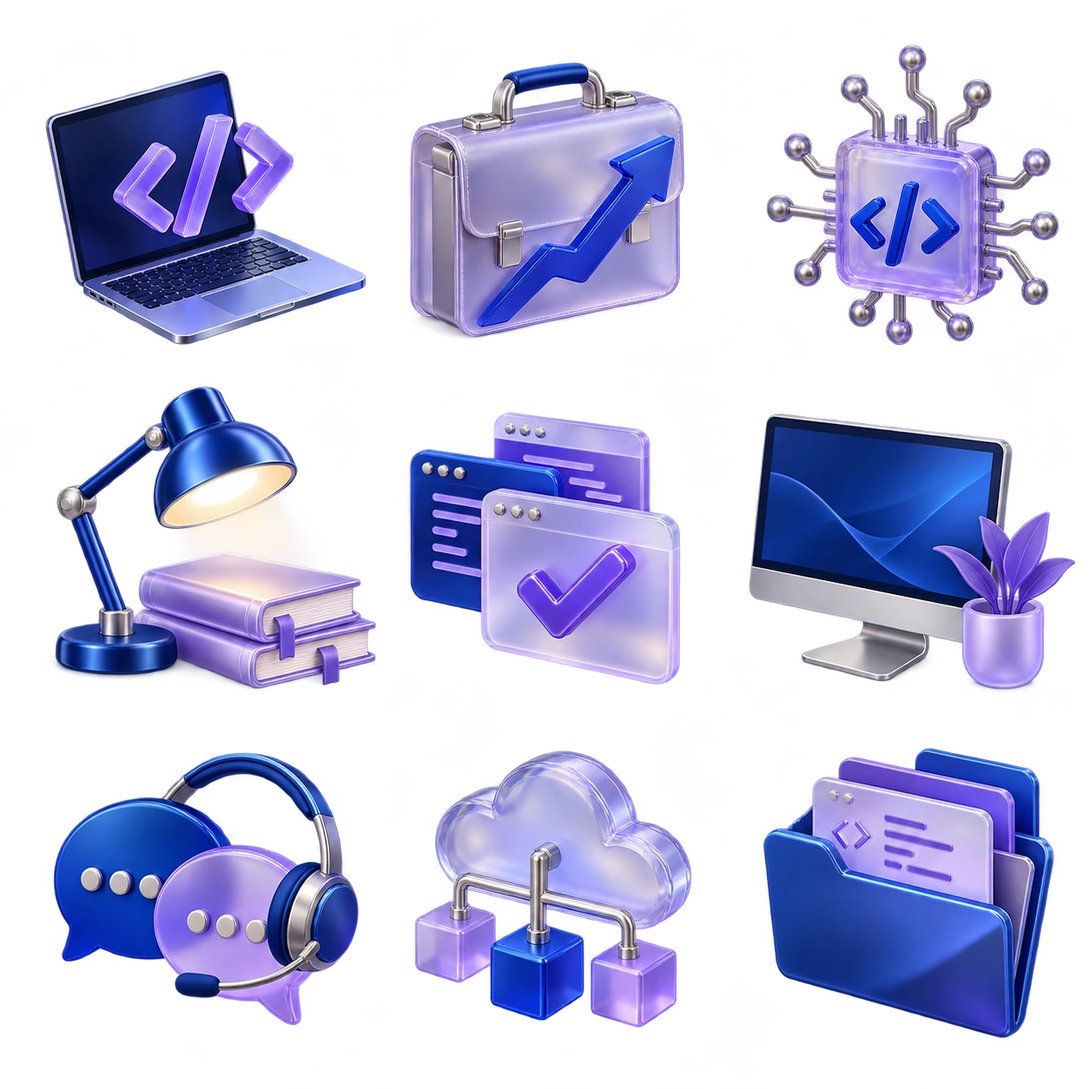
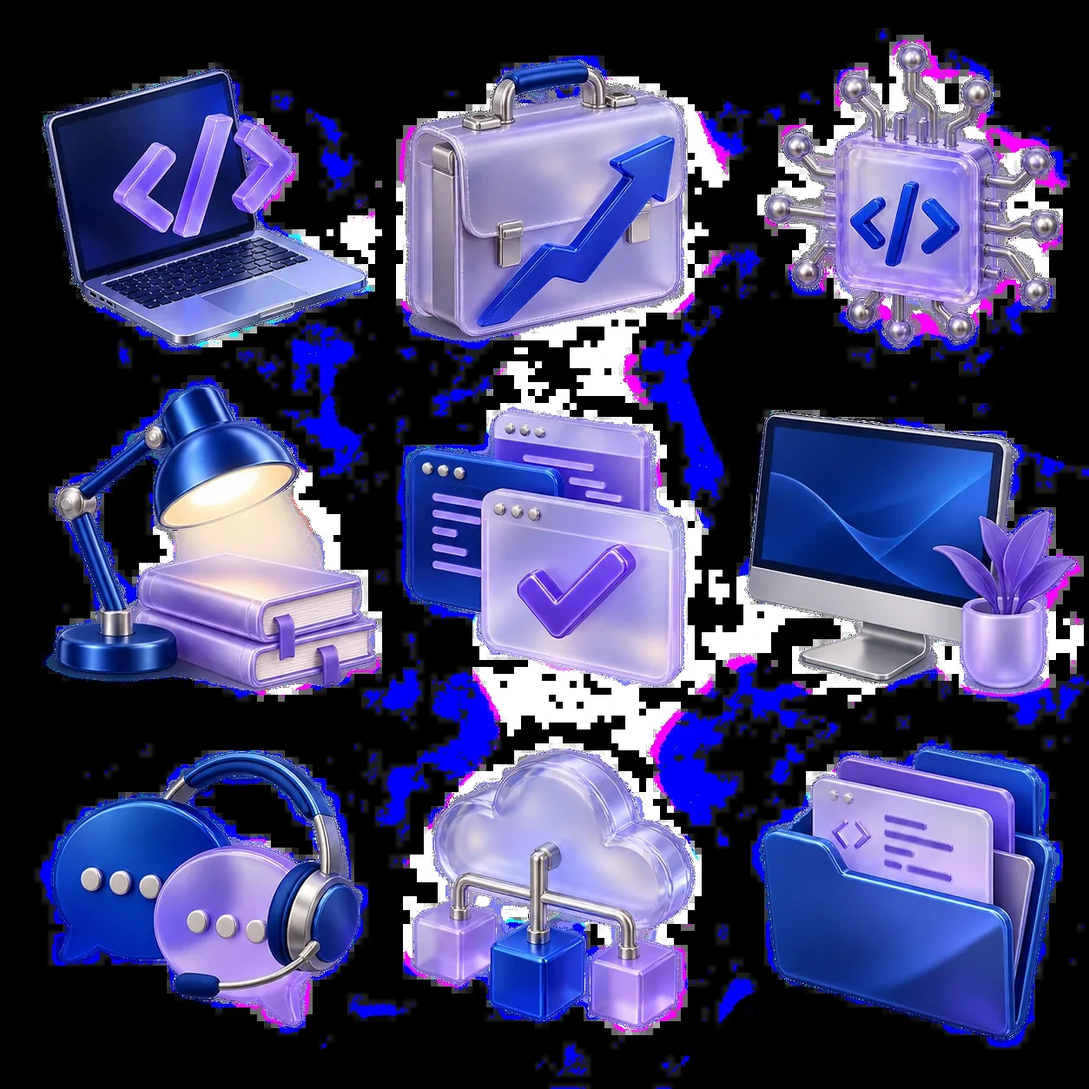
RPO + AI — Алматы: подготовка лендинга к публикации (#20)
* Prepare Almaty RPO + AI landing for production

* Restore admissions label before contact phone numbers

---------

diff --git a/sites/almaty/rpo-ai/index.html b/sites/almaty/rpo-ai/index.html
@@ -70,7 +70,7 @@
 </div></section>
 
 
-    <section class="section container source-comparison"><div class="section-heading"><h2>Преимущества курса</h2></div><div class="comparison-scroll" tabindex="0" role="region" aria-label="Сравнение форматов образования"><table><thead><tr><th scope="col"></th><th scope="col">Курсы</th><th scope="col">Курс-профессия: AI-Native Developer</th><th scope="col">ЗВО</th></tr></thead><tbody><tr><th scope="row">Практика</th><td>Базовые навыки</td><td>Полный комплекс знаний для синергии разработчика и AI в карьере для успешной карьеры</td><td>Глубокая теория</td></tr><tr><th scope="row">Глубина знаний</th><td>Минимум практических задач</td><td>Обучение на реальных кейсах: создание 90+ проектов.</td><td>Преимущественно теория</td></tr><tr><th scope="row">Сертификация</th><td>Сертификат курса</td><td>Диплом Академии IT STEP</td><td>Диплом</td></tr><tr><th scope="row">карьерный рост</th><td>Без гарантии трудоустройства</td><td>Помощь в трудоустройстве через партнерские IT-компании.</td><td>Ограниченная поддержка</td></tr><tr><th scope="row">Трудоустройство</th><td>Узкоспециализированные роли</td><td>Уже во время учебы студенты трудоустраиваются по востребованным профессиям</td><td>После окончания учебы</td></tr><tr><th scope="row">Продолжительность обучения</th><td>2-3 месяца</td><td>18 месяцев</td><td>4-6 лет</td></tr><tr><th scope="row">Преподаватели</th><td>Практикующие специалисты</td><td>Баланс опыта реальных разработчиков и фундаментальных знаний</td><td>Преимущественно теоретики</td></tr><tr><th scope="row">Когда подходит</th><td>Работаете уже в сфере и хотите углубленные знания в одном направлении</td><td>Хотите получить практические навыки для работы с нуля</td><td>Общее развитие или строительство карьеры в науке</td></tr></tbody></table></div><div class="comparison-mobile"><details class="comparison-category" name="mobile-comparison"><summary><span>Практика</span><span class="expand" aria-hidden="true">+</span></summary><dl><div><dt>Курсы</dt><dd>Базовые навыки</dd></div><div><dt>ЗВО</dt><dd>Глубокая теория</dd></div><div class="comparison-highlight"><dt>Курс-профессия: AI-Native Developer</dt><dd>Полный комплекс знаний для синергии разработчика и AI в карьере для успешной карьеры</dd></div></dl></details><details class="comparison-category" name="mobile-comparison"><summary><span>Глубина знаний</span><span class="expand" aria-hidden="true">+</span></summary><dl><div><dt>Курсы</dt><dd>Минимум практических задач</dd></div><div><dt>ЗВО</dt><dd>Преимущественно теория</dd></div><div class="comparison-highlight"><dt>Курс-профессия: AI-Native Developer</dt><dd>Обучение на реальных кейсах: создание 90+ проектов.</dd></div></dl></details><details class="comparison-category" name="mobile-comparison"><summary><span>Сертификация</span><span class="expand" aria-hidden="true">+</span></summary><dl><div><dt>Курсы</dt><dd>Сертификат курса</dd></div><div><dt>ЗВО</dt><dd>Диплом</dd></div><div class="comparison-highlight"><dt>Курс-профессия: AI-Native Developer</dt><dd>Диплом Академии IT STEP</dd></div></dl></details><details class="comparison-category" name="mobile-comparison"><summary><span>карьерный рост</span><span class="expand" aria-hidden="true">+</span></summary><dl><div><dt>Курсы</dt><dd>Без гарантии трудоустройства</dd></div><div><dt>ЗВО</dt><dd>Ограниченная поддержка</dd></div><div class="comparison-highlight"><dt>Курс-профессия: AI-Native Developer</dt><dd>Помощь в трудоустройстве через партнерские IT-компании.</dd></div></dl></details><details class="comparison-category" name="mobile-comparison"><summary><span>Трудоустройство</span><span class="expand" aria-hidden="true">+</span></summary><dl><div><dt>Курсы</dt><dd>Узкоспециализированные роли</dd></div><div><dt>ЗВО</dt><dd>После окончания учебы</dd></div><div class="comparison-highlight"><dt>Курс-профессия: AI-Native Developer</dt><dd>Уже во время учебы студенты трудоустраиваются по востребованным профессиям</dd></div></dl></details><details class="comparison-category" name="mobile-comparison"><summary><span>Продолжительность обучения</span><span class="expand" aria-hidden="true">+</span></summary><dl><div><dt>Курсы</dt><dd>2-3 месяца</dd></div><div><dt>ЗВО</dt><dd>4-6 лет</dd></div><div class="comparison-highlight"><dt>Курс-профессия: AI-Native Developer</dt><dd>18 месяцев</dd></div></dl></details><details class="comparison-category" name="mobile-comparison"><summary><span>Преподаватели</span><span class="expand" aria-hidden="true">+</span></summary><dl><div><dt>Курсы</dt><dd>Практикующие специалисты</dd></div><div><dt>ЗВО</dt><dd>Преимущественно теоретики</dd></div><div class="comparison-highlight"><dt>Курс-профессия: AI-Native Developer</dt><dd>Баланс опыта реальных разработчиков и фундаментальных знаний</dd></div></dl></details><details class="comparison-category" name="mobile-comparison"><summary><span>Когда подходит</span><span class="expand" aria-hidden="true">+</span></summary><dl><div><dt>Курсы</dt><dd>Работаете уже в сфере и хотите углубленные знания в одном направлении</dd></div><div><dt>ЗВО</dt><dd>Общее развитие или строительство карьеры в науке</dd></div><div class="comparison-highlight"><dt>Курс-профессия: AI-Native Developer</dt><dd>Хотите получить практические навыки для работы с нуля</dd></div></dl></details></div></section><section class="section container trial-section" id="trial"><article class="trial-card"><img class="trial-photo" src="assets/trial-laptop.webp" width="1536" height="1024" loading="lazy" alt="Ноутбук с надписью Enter на экране среди полевых цветов под голубым небом"><h2>Попробуйте IT на пробном уроке</h2><p class="trial-intro">Познакомьтесь с Академией IT STEP и узнайте, как проходит обучение на практике.</p><h3>Что вас ждёт:</h3><ul class="trial-benefits"><li>Знакомство с Академией и направлениями обучения.</li><li>Демонстрация одного из направлений, представленных на сайте.</li><li>Возможность узнать больше об интересующей программе.</li></ul><h3>Где проходит урок?</h3><div class="trial-addresses"><p><span class="location-pin" aria-hidden="true"></span>Алматы, мкр. Коктем-3, дом 16А</p><p><span class="location-pin" aria-hidden="true"></span>Алматы, ул. Байсеитовой, 45</p></div><p class="trial-disclaimer">Тема урока и время проведения зависят от расписания Академии.</p><a class="button button-primary" href="#signup">Записаться на пробный урок</a></article></section>
+    <section class="section container source-comparison"><div class="section-heading"><h2>Преимущества курса</h2></div><div class="comparison-scroll" tabindex="0" role="region" aria-label="Сравнение форматов образования"><table><thead><tr><th scope="col"></th><th scope="col">Курсы</th><th scope="col">Курс-профессия: AI-Native Developer</th><th scope="col">ЗВО</th></tr></thead><tbody><tr><th scope="row">Практика</th><td>Базовые навыки</td><td>Полный комплекс знаний для синергии разработчика и AI в карьере для успешной карьеры</td><td>Глубокая теория</td></tr><tr><th scope="row">Глубина знаний</th><td>Минимум практических задач</td><td>Обучение на реальных кейсах: создание 90+ проектов.</td><td>Преимущественно теория</td></tr><tr><th scope="row">Сертификация</th><td>Сертификат курса</td><td>Диплом Академии ШАГ</td><td>Диплом</td></tr><tr><th scope="row">карьерный рост</th><td>Без гарантии трудоустройства</td><td>Помощь в трудоустройстве через партнерские IT-компании.</td><td>Ограниченная поддержка</td></tr><tr><th scope="row">Трудоустройство</th><td>Узкоспециализированные роли</td><td>Уже во время учебы студенты трудоустраиваются по востребованным профессиям</td><td>После окончания учебы</td></tr><tr><th scope="row">Продолжительность обучения</th><td>2-3 месяца</td><td>18 месяцев</td><td>4-6 лет</td></tr><tr><th scope="row">Преподаватели</th><td>Практикующие специалисты</td><td>Баланс опыта реальных разработчиков и фундаментальных знаний</td><td>Преимущественно теоретики</td></tr><tr><th scope="row">Когда подходит</th><td>Работаете уже в сфере и хотите углубленные знания в одном направлении</td><td>Хотите получить практические навыки для работы с нуля</td><td>Общее развитие или строительство карьеры в науке</td></tr></tbody></table></div><div class="comparison-mobile"><details class="comparison-category" name="mobile-comparison"><summary><span>Практика</span><span class="expand" aria-hidden="true">+</span></summary><dl><div><dt>Курсы</dt><dd>Базовые навыки</dd></div><div><dt>ЗВО</dt><dd>Глубокая теория</dd></div><div class="comparison-highlight"><dt>Курс-профессия: AI-Native Developer</dt><dd>Полный комплекс знаний для синергии разработчика и AI в карьере для успешной карьеры</dd></div></dl></details><details class="comparison-category" name="mobile-comparison"><summary><span>Глубина знаний</span><span class="expand" aria-hidden="true">+</span></summary><dl><div><dt>Курсы</dt><dd>Минимум практических задач</dd></div><div><dt>ЗВО</dt><dd>Преимущественно теория</dd></div><div class="comparison-highlight"><dt>Курс-профессия: AI-Native Developer</dt><dd>Обучение на реальных кейсах: создание 90+ проектов.</dd></div></dl></details><details class="comparison-category" name="mobile-comparison"><summary><span>Сертификация</span><span class="expand" aria-hidden="true">+</span></summary><dl><div><dt>Курсы</dt><dd>Сертификат курса</dd></div><div><dt>ЗВО</dt><dd>Диплом</dd></div><div class="comparison-highlight"><dt>Курс-профессия: AI-Native Developer</dt><dd>Диплом Академии ШАГ</dd></div></dl></details><details class="comparison-category" name="mobile-comparison"><summary><span>карьерный рост</span><span class="expand" aria-hidden="true">+</span></summary><dl><div><dt>Курсы</dt><dd>Без гарантии трудоустройства</dd></div><div><dt>ЗВО</dt><dd>Ограниченная поддержка</dd></div><div class="comparison-highlight"><dt>Курс-профессия: AI-Native Developer</dt><dd>Помощь в трудоустройстве через партнерские IT-компании.</dd></div></dl></details><details class="comparison-category" name="mobile-comparison"><summary><span>Трудоустройство</span><span class="expand" aria-hidden="true">+</span></summary><dl><div><dt>Курсы</dt><dd>Узкоспециализированные роли</dd></div><div><dt>ЗВО</dt><dd>После окончания учебы</dd></div><div class="comparison-highlight"><dt>Курс-профессия: AI-Native Developer</dt><dd>Уже во время учебы студенты трудоустраиваются по востребованным профессиям</dd></div></dl></details><details class="comparison-category" name="mobile-comparison"><summary><span>Продолжительность обучения</span><span class="expand" aria-hidden="true">+</span></summary><dl><div><dt>Курсы</dt><dd>2-3 месяца</dd></div><div><dt>ЗВО</dt><dd>4-6 лет</dd></div><div class="comparison-highlight"><dt>Курс-профессия: AI-Native Developer</dt><dd>18 месяцев</dd></div></dl></details><details class="comparison-category" name="mobile-comparison"><summary><span>Преподаватели</span><span class="expand" aria-hidden="true">+</span></summary><dl><div><dt>Курсы</dt><dd>Практикующие специалисты</dd></div><div><dt>ЗВО</dt><dd>Преимущественно теоретики</dd></div><div class="comparison-highlight"><dt>Курс-профессия: AI-Native Developer</dt><dd>Баланс опыта реальных разработчиков и фундаментальных знаний</dd></div></dl></details><details class="comparison-category" name="mobile-comparison"><summary><span>Когда подходит</span><span class="expand" aria-hidden="true">+</span></summary><dl><div><dt>Курсы</dt><dd>Работаете уже в сфере и хотите углубленные знания в одном направлении</dd></div><div><dt>ЗВО</dt><dd>Общее развитие или строительство карьеры в науке</dd></div><div class="comparison-highlight"><dt>Курс-профессия: AI-Native Developer</dt><dd>Хотите получить практические навыки для работы с нуля</dd></div></dl></details></div></section><section class="section container trial-section" id="trial"><article class="trial-card"><img class="trial-photo" src="assets/trial-laptop.webp" width="1536" height="1024" loading="lazy" alt="Ноутбук с надписью Enter на экране среди полевых цветов под голубым небом"><h2>Попробуйте IT на пробном уроке</h2><p class="trial-intro">Познакомьтесь с Академией ШАГ и узнайте, как проходит обучение на практике.</p><h3>Что вас ждёт:</h3><ul class="trial-benefits"><li>Знакомство с Академией и направлениями обучения.</li><li>Демонстрация одного из направлений, представленных на сайте.</li><li>Возможность узнать больше об интересующей программе.</li></ul><h3>Где проходит урок?</h3><div class="trial-addresses"><p><span class="location-pin" aria-hidden="true"></span>г. Алматы, мкр. Коктем-3, 16а</p><p><span class="location-pin" aria-hidden="true"></span>г. Алматы, ул. Байсеитовой, 45</p></div><p class="trial-disclaimer">Тема урока и время проведения зависят от расписания Академии.</p><a class="button button-primary" href="#signup">Записаться на пробный урок</a></article></section>
 
     <section class="section container faq-section" id="faq"><div class="section-heading"><h2>Часто задаваемые вопросы</h2></div><div class="faq-list"><details><summary>Как понять, подходит ли мне профессия разработчика?<span class="expand" aria-hidden="true">+</span></summary><p>В первую очередь, это определяется вашим желанием. У нас еще не было ни одного студента, у которого бы не получилось освоить новую профессию. Запишитесь к нам на визит, и мы протестируем ваши знания и при необходимости поможем подготовиться.</p></details><details><summary>Чем полустационар отличается от стационара?<span class="expand" aria-hidden="true">+</span></summary><p>В нашем филиале стационарный формат обучения, то есть оффлайн в Академии. Стационар подходит для тех, кто привык получать знания и опыт максимально погружаясь в новую сферу в окружении единомышленников.</p></details><details><summary>Кто может учиться, есть ли какие-то ограничения по возрасту или по знаниям?<span class="expand" aria-hidden="true">+</span></summary><p>На стационаре может учиться любой человек в возрасте от 15 до 55 лет, независимо от базового образования. Главное иметь базовые знания компьютера и желание учиться. При поступлении никаких экзаменов, только тест на знание ПК.</p></details><details><summary>Если нет компьютера дома, могу ли я заниматься в Академии?<span class="expand" aria-hidden="true">+</span></summary><p>Да, нужно лишь выбрать подходящее время с учебной частью. Наши учебные аудитории доступны по графику работы филиала.</p></details><details><summary>Какие документы нужно иметь для поступления?<span class="expand" aria-hidden="true">+</span></summary><p>Для заключения договора вам понадобятся: удостоверение личности заказчика старше 21 года и документ с данными обучающегося, если он(а) младше 21 года и не является заказчиком. С 18 лет можно выступать заказчиком только при одобрении родителя/опекуна.</p></details><details><summary>Можно ли обучаться в онлайне?<span class="expand" aria-hidden="true">+</span></summary><p>Если вас интересует дистанционное обучение, Компьютерная Академия запустила онлайн-филиал, где вы можете проходить обучение полностью онлайн.</p></details><details><summary>Какой документ / сертификат я получу после окончания Академии?<span class="expand" aria-hidden="true">+</span></summary><p>Диплом Компьютерной Академии ШАГ на двух языках: русском и английском, или казахском и английском. Также вы получите сертификаты от Cisco в случае сдачи на сертификацию.</p></details></div></section>
 
@@ -79,11 +79,11 @@
         <div class="section-heading"><h2 id="contacts-title">Контакты</h2></div>
         <div class="contacts-card">
           <address class="contacts-addresses">
-            <p><span class="location-pin" aria-hidden="true"></span><span>г. Алматы, Коктем-3,<br>дом 16а.</span></p>
-            <p><span class="location-pin" aria-hidden="true"></span><span>улица Байсеитовой, 45</span></p>
+            <p><span class="location-pin" aria-hidden="true"></span><span>г. Алматы, мкр. Коктем-3, 16а</span></p>
+            <p><span class="location-pin" aria-hidden="true"></span><span>г. Алматы, ул. Байсеитовой, 45</span></p>
           </address>
           <div class="contacts-reception">
-            <p class="contacts-label">Приемная комиссия</p>
+            <p class="contacts-label">Приёмная комиссия</p>
             <div class="contacts-phones"><a href="tel:+77059575150">+7 (705) 957-51-50</a><a href="tel:+77055936395">+7 (705) 593-63-95</a></div>
             <a class="contacts-email" href="mailto:welcome@itstep.org">welcome@itstep.org</a>
             <p class="contacts-hours">Пн–Сб 9:30–19:00</p>
@@ -92,7 +92,7 @@
       </div>
     </section>
   </main>
-  <footer class="footer"><div class="container"><div class="footer-top"><a class="brand" href="#" aria-label="Академия ШАГ — в начало страницы"><img src="assets/step-light.svg" width="40" height="43" alt="ШАГ"></a><img class="footer-hub-logo" src="assets/astana-light.svg" width="120" height="25" alt="Astana Hub"></div><div class="footer-bottom"><span>Академия IT STEP · РПО + AI</span><a href="https://fsx1.itstep.org/api/v1/files/tEWf-PkBw8xZ1_A70fco5miibSh8aBlK?inline=true" target="_blank" rel="noopener noreferrer">Политика конфиденциальности</a><span>Визуализация учебной среды</span></div></div></footer>
+  <footer class="footer"><div class="container"><div class="footer-top"><a class="brand" href="#" aria-label="Академия ШАГ — в начало страницы"><img src="assets/step-light.svg" width="40" height="43" alt="ШАГ"></a><img class="footer-hub-logo" src="assets/astana-light.svg" width="120" height="25" alt="Astana Hub"></div><div class="footer-bottom"><span>Академия ШАГ · РПО + AI</span><a href="https://fsx1.itstep.org/api/v1/files/tEWf-PkBw8xZ1_A70fco5miibSh8aBlK?inline=true" target="_blank" rel="noopener noreferrer">Политика конфиденциальности</a><span>Визуализация учебной среды</span></div></div></footer>
 <a class="wa-float" data-whatsapp href="https://wa.me/77059921014" aria-label="Написать в WhatsApp"><svg class="wa-icon" aria-hidden="true"><use href="#wa-icon"/></svg></a>
 </body>
 </html>

diff --git a/sites/almaty/rpo-ai/spasibo/index.html b/sites/almaty/rpo-ai/spasibo/index.html
@@ -16,7 +16,7 @@
 </head>
 <body class="thanks-page" data-state="checking">
   <main class="thanks">
-    <a class="thanks-logo" href="/rpo-ai" aria-label="Академия ШАГ, на главную"><img src="assets/step-dark.svg" height="40" alt="Академия ШАГ"></a>
+    <a class="thanks-logo" href="./" aria-label="Академия ШАГ, на главную"><img src="assets/step-dark.svg" height="40" alt="Академия ШАГ"></a>
     <section class="thanks-card" aria-live="polite">
       <div class="badge" aria-hidden="true">
         <svg viewBox="0 0 64 64" width="64" height="64" focusable="false">
@@ -34,7 +34,7 @@
         <li><span class="step-n">3</span><span>Ждём вас на пробном уроке</span></li>
       </ol>
       <div class="actions">
-        <a class="button button-primary" href="/rpo-ai">Вернуться на сайт</a>
+        <a class="button button-primary" href="./">Вернуться на сайт</a>
         <a class="phone-link" href="tel:+77059575150">+7 (705) 957-51-50</a>
       </div>
     </section>
